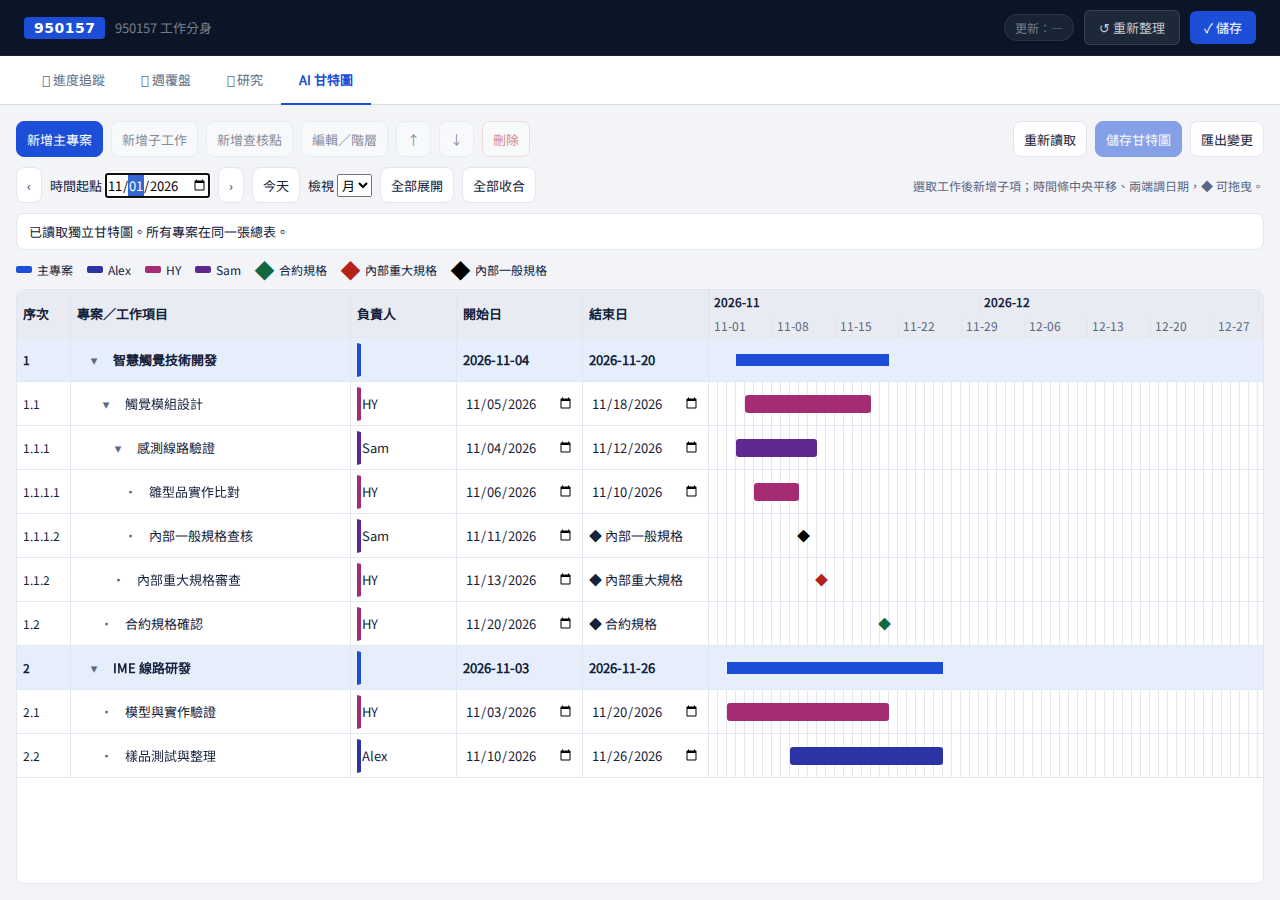
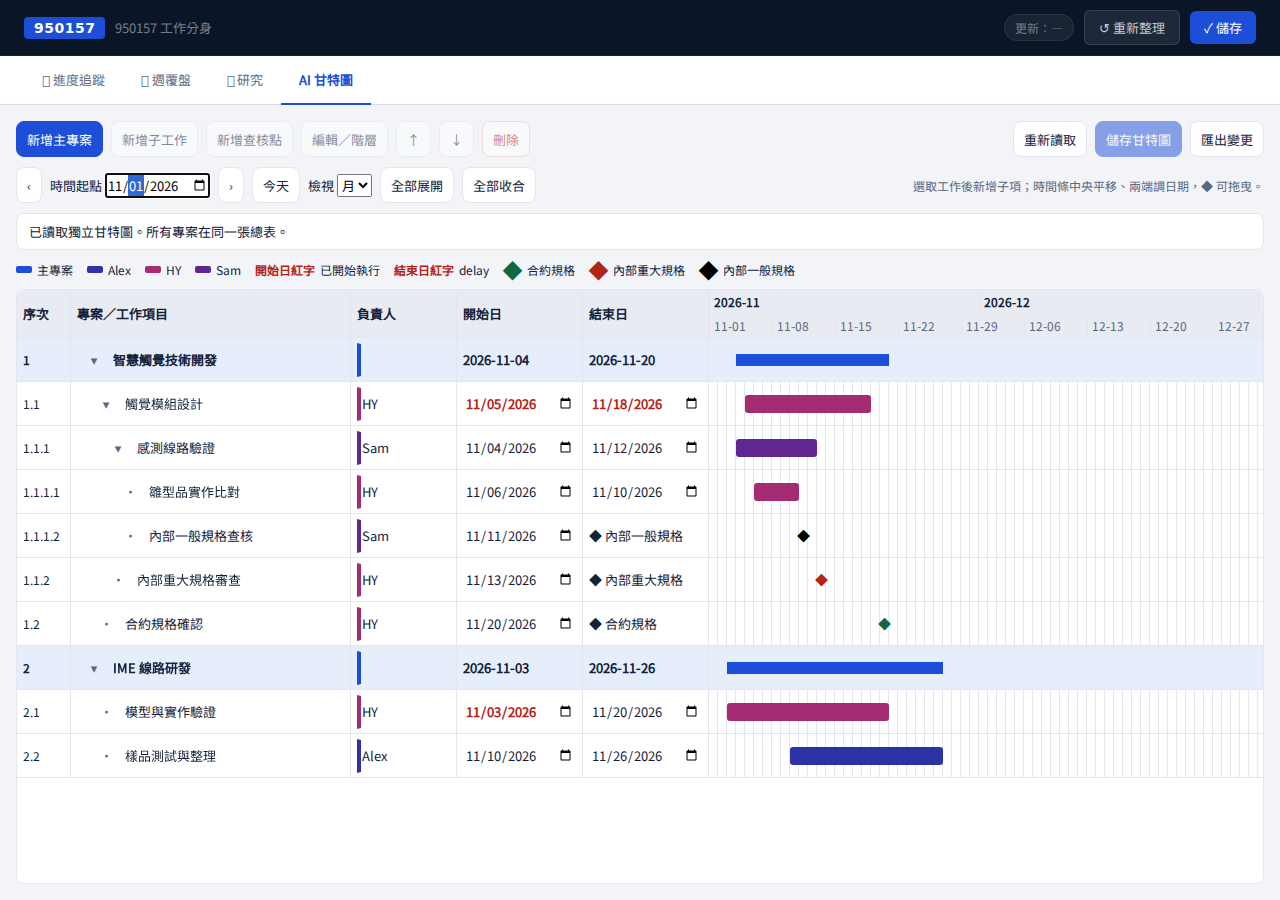
依 Excel 習慣以開始日紅字標記執行、結束日紅字標記 delay

diff --git a/public/gantt-950157.css b/public/gantt-950157.css
@@ -12,3 +12,5 @@
 
 .g-tick{height:24px;line-height:24px}.g-tick.g-date{top:24px;color:var(--hy-muted);font-weight:400}
 @media(max-width:640px){.g-row{grid-template-columns:44px 180px 90px 112px 112px var(--g-width)}.g-name{max-width:180px}}
+
+.g-row .g-cell.g-date-red,.g-date-label{color:var(--hy-bad);font-weight:700}.g-date-flags{display:grid;gap:4px}.g-form .g-date-flags label{display:flex;align-items:center;gap:8px;min-height:36px}.g-form .g-date-flags input[type=checkbox]{width:18px;min-height:18px;height:18px;padding:0;accent-color:var(--hy-brand)}

diff --git a/docs/quality/950157-gantt-mvp.md b/docs/quality/950157-gantt-mvp.md
@@ -54,4 +54,8 @@
 
 ## 驗收修訂
 
-依使用者回饋，移除表格與編輯視窗的狀態欄。既有資料的 status 僅為儲存契約相容而原樣保留，不新增完成／逾期判定功能。依本輪確認先完成桌面手動版，AI 文字修改與手機版優化暫緩。delay 先提出原訂範圍與目前排程並列、標註延後天數的方案，尚未新增。
+依使用者回饋，移除表格與編輯視窗的狀態欄。既有資料的 status 僅為儲存契約相容而原樣保留，日期紅字依使用者標記，不以今天日期自動判斷。依本輪確認先完成桌面手動版，AI 文字修改與手機版優化暫緩。delay 依使用者 Excel 習慣，以結束日紅字呈現；開始日紅字表示已開始執行。
+
+## 日期紅字規則（使用者定義）
+
+在「編輯／階層」勾選「已開始執行」後，開始日變紅字；勾選「delay／已延後」後，結束日變紅字。兩個標記可分別取消，會隨甘特圖儲存、重讀，不以日曆日期自行推定。主專案與工作都可標記，查核點仍只有日期與三種規格菱形。沒有恢復狀態欄，也沒有原訂底條、斜線、延後天數或歷史版本。時間條仍依負責人色，主專案仍同色，三種查核點色不變。
